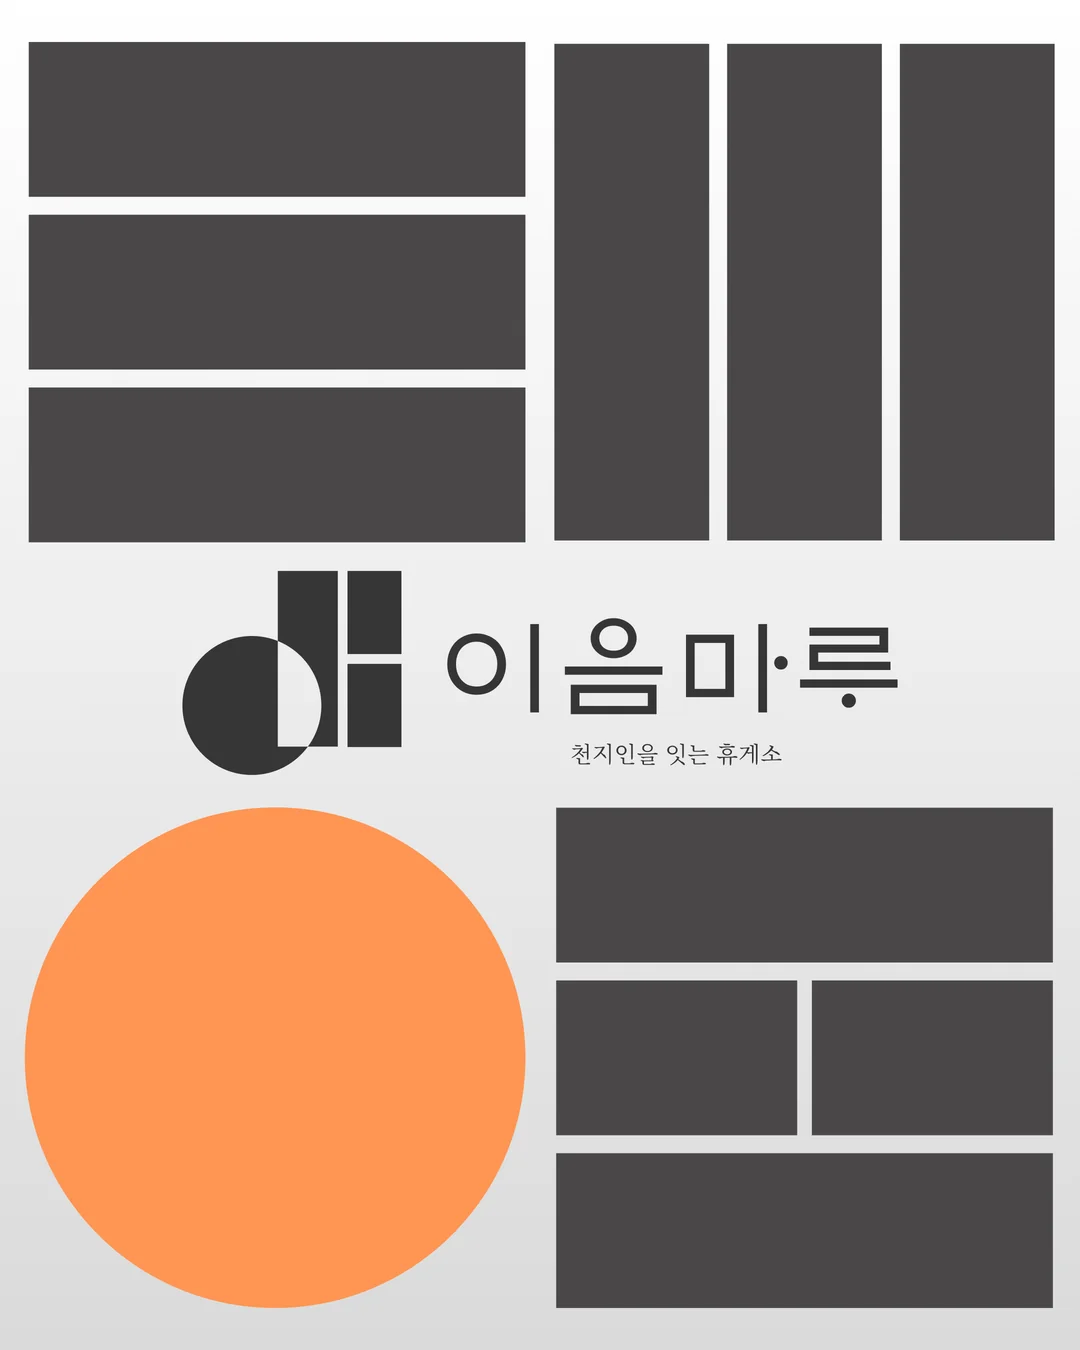
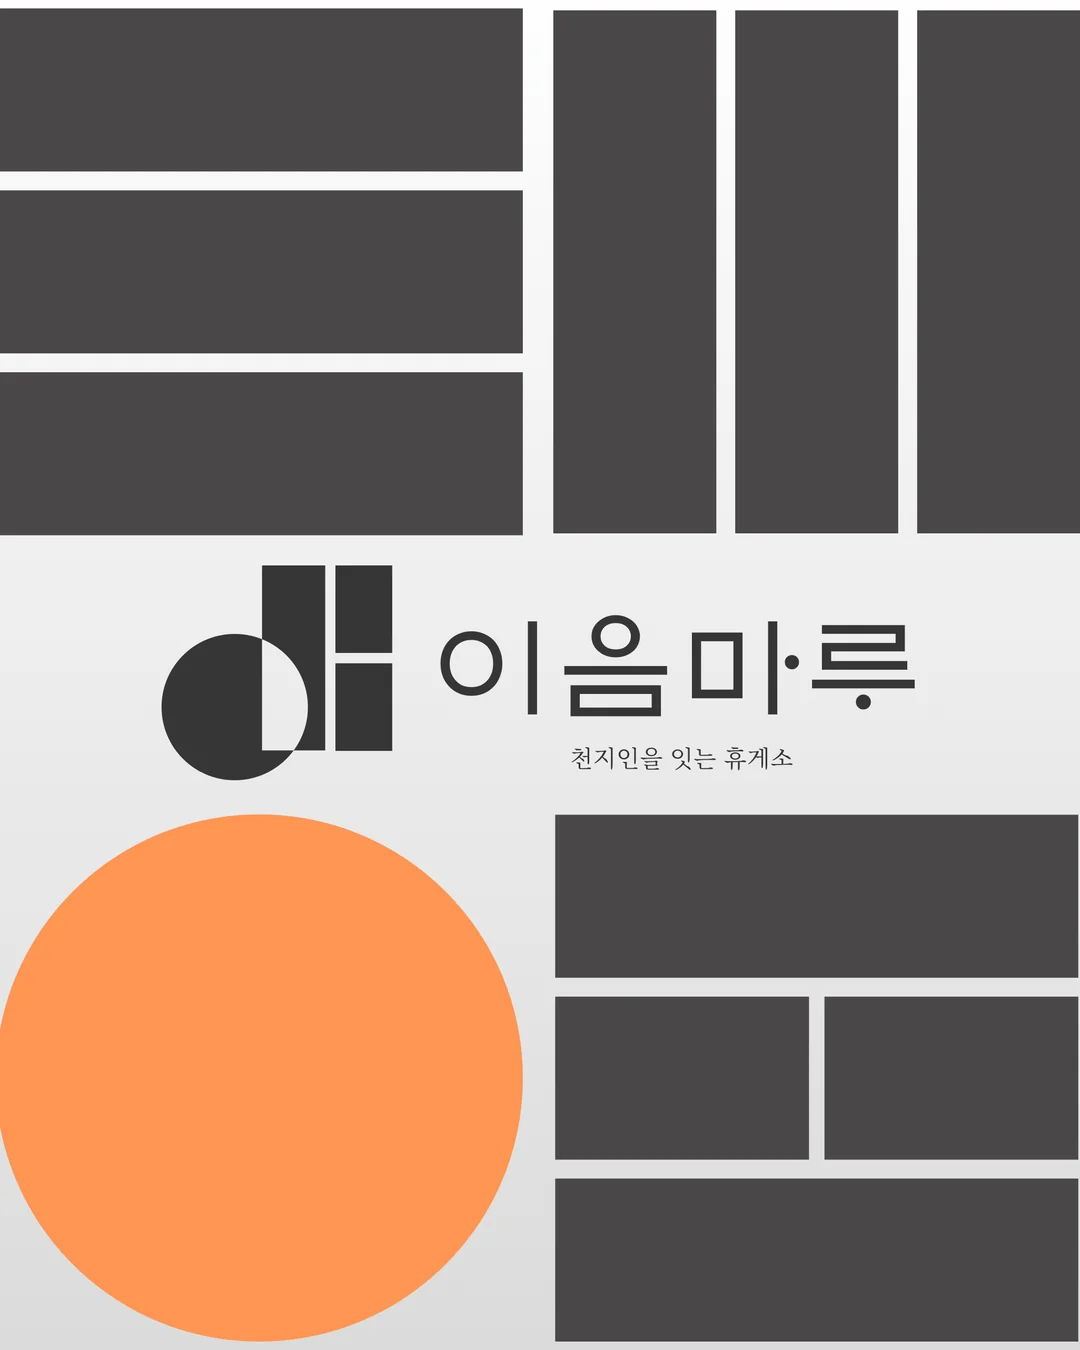
2026 PROJECTS: 예약 업데이트 3/5 — 스융디 tension(링크 YouTube) 추가, 이음마루 썸네일 안쪽 여백 잘라 4:5 꽉 차게

Changed region(s): [[0.0, 0.0, 1.0, 0.9956], [0.0, 0.6533, 0.4583, 0.9956], [0.0917, 0.6222, 0.1222, 0.6533]]

diff --git a/2026/src/app/2026/_components/projects.ts b/2026/src/app/2026/_components/projects.ts
@@ -217,7 +217,11 @@ const WORKS: Record<ClassKey, [title: string, members: string[], description?: s
       ["김남경"],
       "연속된 회의와 긴 업무는 식사와 자기 돌봄의 시간을 뒤로 미루게 한다. IRIS는 이런 바쁜 하루를 위한 팔뚝 착용형 영양 공급 웨어러블 디바이스다. 손목 가까운 팔뚝에 걸치는 열린 커프 형태로 본체에 고정된 내장 영양 칩이 피부에 닿는 마이크로니들 패치와 이어져 저장과 전달을 하나의 커프 안에 담았다. 착용한 채 업무를 이어 가고, 쓰지 않을 때는 전용 데스크 스탠드에 올려 두어 책상 위 오브제가 되며 스탠드는 우드 결, 중성 회색, 청회색 텍스처의 세 가지 마감으로 제안했다. 팔을 따라 끊김 없이 흐르는 곡면과 길게 파인 홈, 반복되는 리브 패턴, 차분한 화이트 외관으로 업무 공간에 자연스럽게 어우러지도록 했다. 바쁜 하루 속에서도 자신의 컨디션 가까이 머무는 방식을 제안한다.",
     ],
-    ["Tension", ["박한나"]],
+    [
+      "tension",
+      ["박한나"],
+      "tension은 일상에서 자연스럽게 착용하며, 자세가 흐트러질 때 적절한 텐션을 제공해 바른 자세를 돕는 패션형 스마트 웨어러블 디바이스입니다. 재택근무와 스크린 타임이 늘며 장시간 앉아 있는 생활이 익숙해졌지만, 자세의 변화는 쉽게 인지하기 어렵습니다. 기존 자세 교정기는 의료기기 같은 외형과 답답한 착용감으로 일상적인 사용에 부담이 있습니다. tension은 자세 변화를 감지해 어깨 스트랩의 텐션을 단계적으로 조절하고 자연스럽게 바른 자세를 유도합니다. 일상복과 어우러지는 디자인과 앱 기반 모드 설정, 일·주·월 리포트를 통해 지속적인 자세 관리를 돕습니다.",
+    ],
     ["Nadir", ["성아현", "유은서", "최세린"]],
     [
       "TERRAVIA",
@@ -352,6 +356,7 @@ const LINKS: Record<string, [label: string, href: string][]> = {
     ["Behance", "https://www.behance.net/myoungseon"],
     ["Behance", "https://www.behance.net/52cbd72b"],
   ],
+  "smart/tension": [["YouTube", "https://youtu.be/imi5pYlVkw4?si=jimqFSLMwPRROIrh"]],
 };
 
 // 받은 파일: "<수업>/<제목 slug>" → 장표 번호 순서 ("NN" = NN.webp, "NN.mp4" = 영상). thumb.webp는 늘 함께 있음
@@ -389,6 +394,7 @@ const FILES: Record<string, string[]> = {
   "smart/re-source": ["01.mp4", "02", "03", "04", "05", "06", "07"],
   "smart/swig": ["01", "02", "03", "04", "05", "06", "07"],
   "smart/sync": ["01", "02", "03", "04", "05", "06.mp4", "07"],
+  "smart/tension": ["01", "02", "03", "04", "05", "06"],
   "smart/terravia": ["01", "02", "03", "04", "05", "06", "07"],
   "smart/zeen": ["01", "02", "03", "04", "05", "06"],
   "spatial/ieummaru": ["01", "02", "03", "04", "05", "06", "07"],
